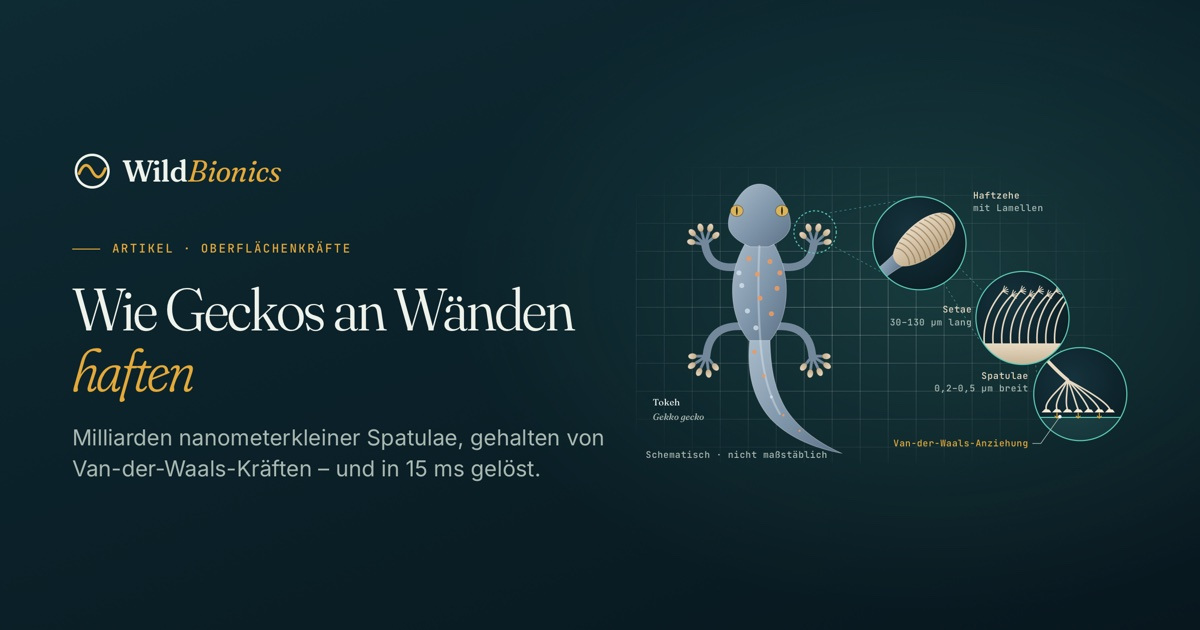
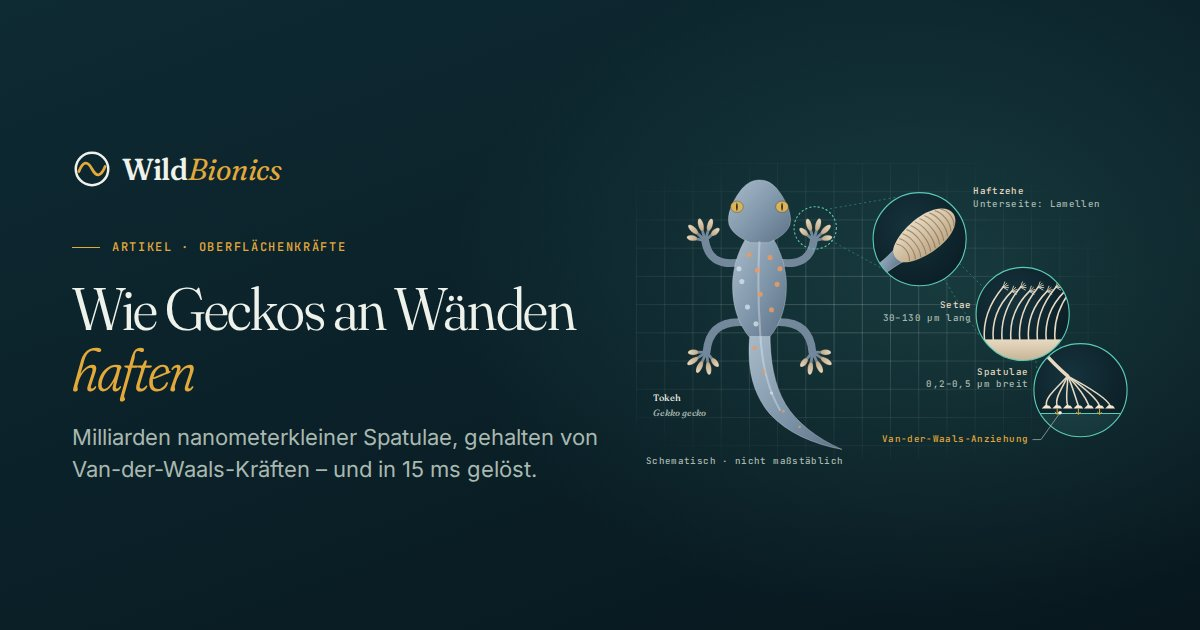
Gecko figure: subdigital pads along the toes, "underside" in the zoom label
Scientific review of Fig. 1 of the gecko article:
- The adhesive pads were drawn as small ovals at the toe tips, like a tree
  frog's discs. In the tokay gecko the pads are subdigital (Russell 2002,
  doi:10.1093/icb/42.6.1154) and cover the widened distal part of each
  toe – digits 30 % longer, pads under their distal half
- The gecko is seen from behind (dorsal view) while the lamellae are on
  the underside of the toes – the zoom label now says so (EN/DE)
- Checked and correct: five digits, vertical slit pupils, blue-grey with
  orange and pale spots, pad → setae (30–130 µm, branched tips) →
  spatulae (0.2–0.5 µm) lying flat on the wall, "not to scale" note
- OG images EN/DE re-rendered with the corrected figure; articles
  updated 2026-09-28

Claude-Session: https://claude.ai/code/session_01PEgCUqdNuQo3Rf5VVnReus

diff --git a/_articles/gecko-adhesion.de.md b/_articles/gecko-adhesion.de.md
@@ -8,6 +8,7 @@ kicker: "Artikel · Oberflächenkräfte"
 description: "Geckos laufen ohne Kleber Glaswände hoch: Milliarden winziger Spatulae an ihren Zehen haften über Van-der-Waals-Kräfte – und lösen sich in Millisekunden."
 dek: "Kein Kleber, keine Saugnäpfe, keine Krallen nötig: Die Zehen eines Geckos tragen Millionen mikroskopischer Härchen, die sich in Milliarden nanometerkleiner Enden aufspalten. Nah genug an einer Wand summiert sich die schwächste aller Molekülkräfte zu einem Halt für das ganze Tier – und schaltet sich in wenigen Millisekunden wieder ab."
 date: 2026-09-27
+updated: 2026-09-28
 permalink: /de/artikel/gecko-haftung/
 image: /assets/og/gecko-adhesion-de.jpg
 image_alt: "Schema eines Tokehs an einer Wand mit Vergrößerungen seines Haftpolsters, der Setae und der Spatulae, die die Wand berühren."

diff --git a/_articles/gecko-adhesion.en.md b/_articles/gecko-adhesion.en.md
@@ -8,6 +8,7 @@ kicker: "Article · Surface forces"
 description: "Geckos run up glass without glue or suction: billions of tiny spatulae on their toes stick by van der Waals forces – and let go in milliseconds."
 dek: "No glue, no suction cups, no claws needed: a gecko's toes carry millions of microscopic hairs that split into billions of nanoscale tips. Close enough to a wall, the weakest of all molecular forces adds up to hold the animal – and switches off in a few milliseconds."
 date: 2026-09-27
+updated: 2026-09-28
 permalink: /articles/gecko-adhesion/
 image: /assets/og/gecko-adhesion-en.jpg
 image_alt: "Schematic of a tokay gecko on a wall with zooms into its toe pad, the setae and the spatulae that touch the wall."
